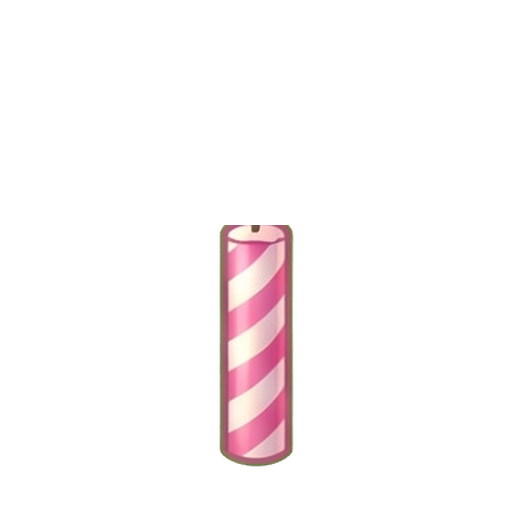
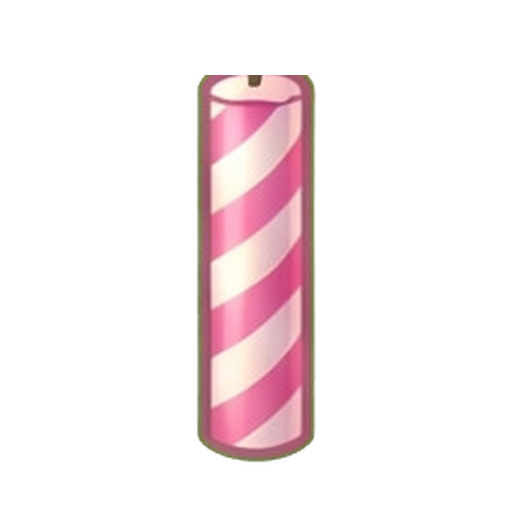
Seat the cake on the painted stand and keep it and its candles on screen
The painted stand is an oval plate seen from above: the cake now rests on
it, drawn in front of it. The cake's size is also bounded by the screen's
height so three tiers with candles and flames fit on wide phones. The
painted candle fills the old candle's height so the flames sit on the wicks.

Claude-Session: https://claude.ai/code/session_01Vq7rWJfLkRFcevPa2Fraqn

Changed region(s): [[0.375, 0.125, 0.625, 0.9375]]

diff --git a/godot/tools/make_props.py b/godot/tools/make_props.py
@@ -43,6 +43,8 @@ BOX = {
 }
 BOTTOM = {'tree', 'tree_blossom', 'bush', 'cake_candle', 'garden_soil', 'shroom_red', 'shroom_brown',
           'rock', 'clump_a', 'clump_b', 'cake_stand'}
+# fill the old box's height even if wider: the candle's flame is placed by its top
+FULL_HEIGHT = {'cake_candle'}
 # sheet, key, min-area, {piece index: name}
 SHEETS = [
     ('props_cake', 'green', '0.0005', {1: '-', 2: 'cake_stand', 3: 'cake_candle', 4: 'cake_flame', 5: 'cake_cherry',
@@ -78,6 +80,8 @@ def strip_flame(im: Image.Image) -> Image.Image:
 def fit(im: Image.Image, name: str) -> Image.Image:
     cw, ch, bx, by, bw, bh = BOX[name]
     s = min(bw / im.width, bh / im.height)
+    if name in FULL_HEIGHT:
+        s = bh / im.height
     w, h = max(1, round(im.width * s)), max(1, round(im.height * s))
     piece = im.resize((w, h), Image.LANCZOS)
     canvas = Image.new('RGBA', (cw, ch), (0, 0, 0, 0))
